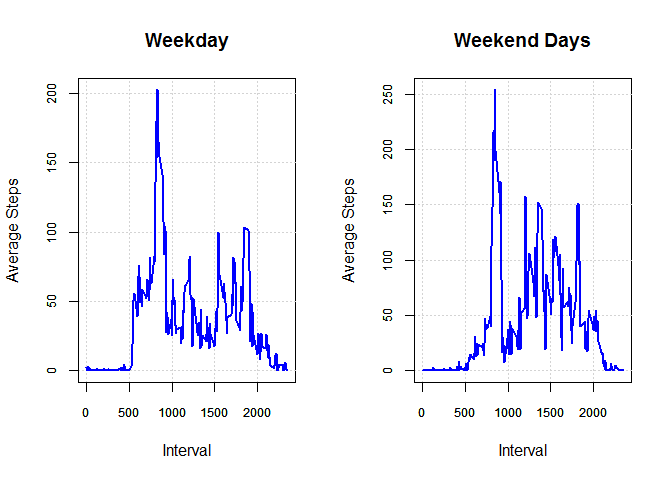
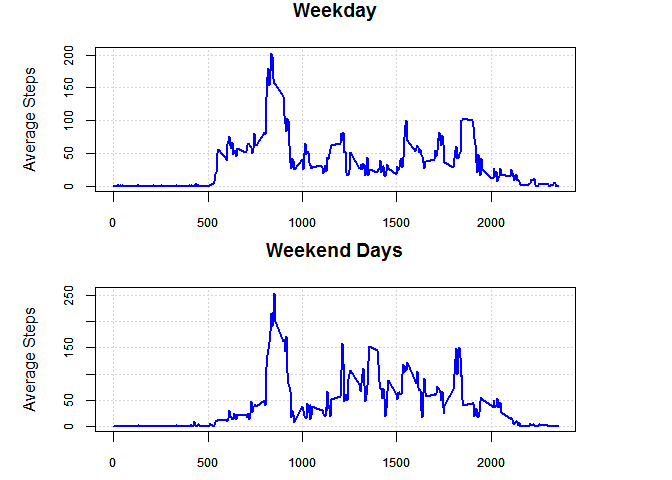
Fixed layout of panel plot, to make it vertical versus horizontal.

diff --git a/PA1_template.html b/PA1_template.html
@@ -273,10 +273,10 @@ plot.ss &lt;- function(datasubset) {
 # Start a new panel plot.
 
 plot.new()
-par(mfrow=c(1,2))               # Setup for one row, two plots.
+par(mfcol=c(2,1), pin=c(5,1.5))               # Setup for two rows, one column for the two plots.
 plot.ss(&quot;Weekday&quot;)              # Plot the average weekday activity by interval.
 plot.ss(&quot;Weekend Days&quot;)         # Plot the average weekend day activity by interval.</code></pre>
[2 lines of base64/hex data omitted]
 </div>
 </div>
 

diff --git a/PA1_template.md b/PA1_template.md
@@ -262,7 +262,7 @@ plot.ss <- function(datasubset) {
 # Start a new panel plot.
 
 plot.new()
-par(mfrow=c(1,2))               # Setup for one row, two plots.
+par(mfcol=c(2,1), pin=c(5,1.5))               # Setup for two rows, one column for the two plots.
 plot.ss("Weekday")              # Plot the average weekday activity by interval.
 plot.ss("Weekend Days")         # Plot the average weekend day activity by interval.
 ```
